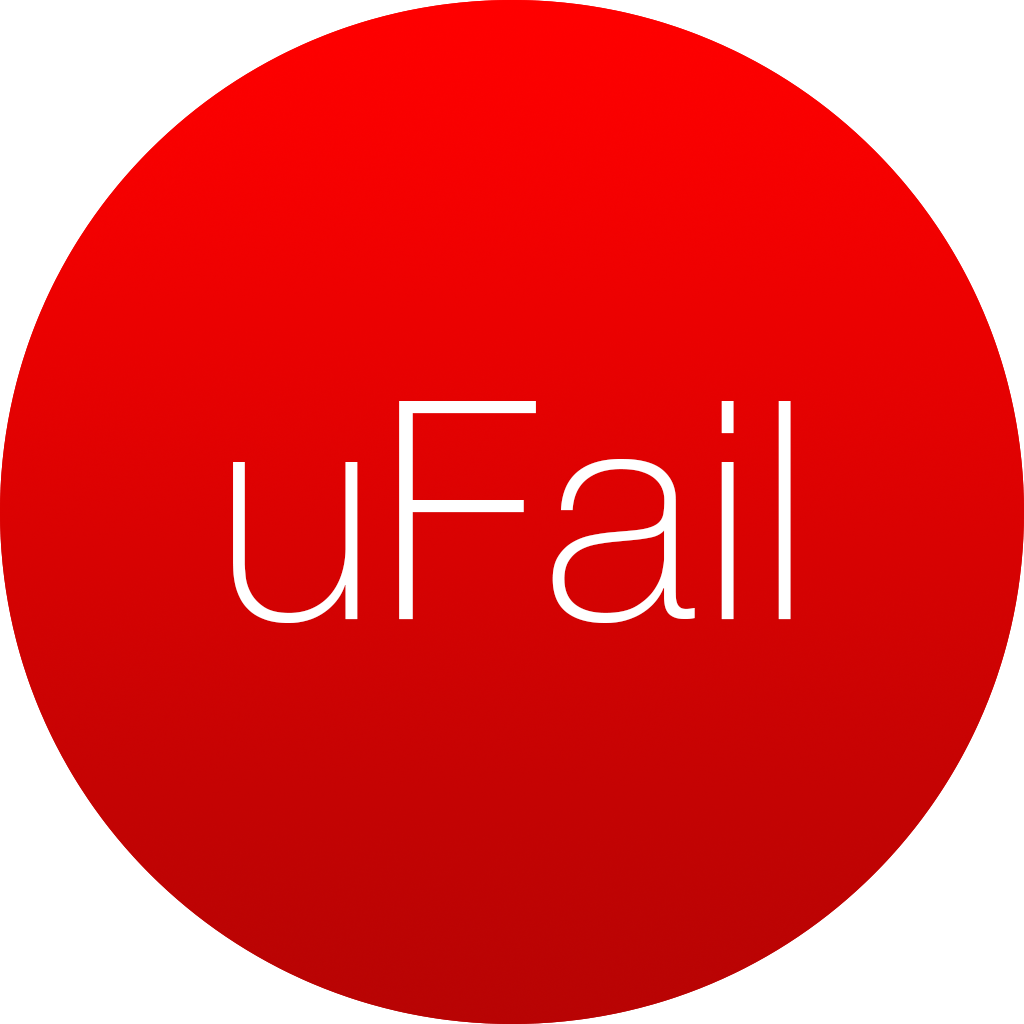
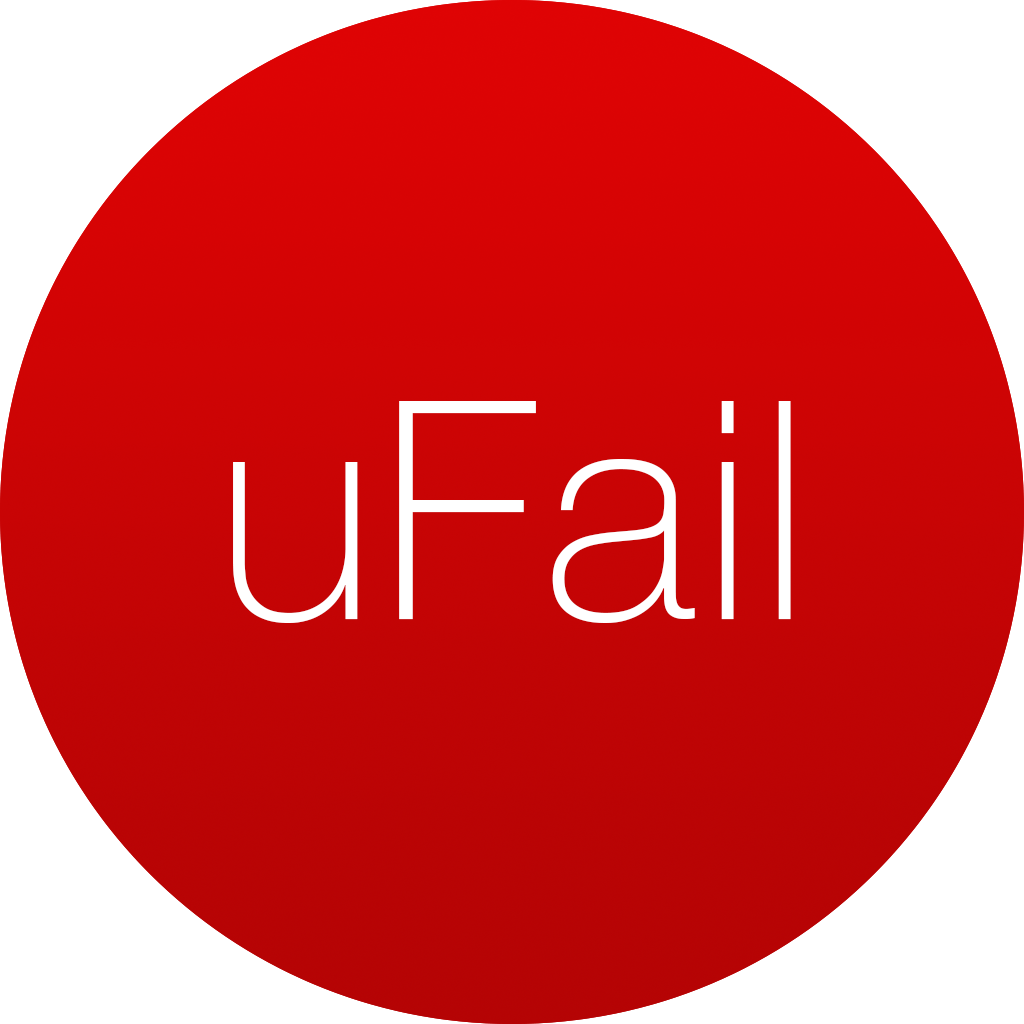
button fixes. Changing the default theme. (#118)

Changed region(s): [[0.0312, 0.0, 0.9688, 0.375]]

diff --git a/uFail/Classes/Handlers/Theme/ThemeHandler.swift b/uFail/Classes/Handlers/Theme/ThemeHandler.swift
@@ -33,7 +33,8 @@ class ThemeHandler: NSObject {
         case "purple":
             theme = .purple
         default:
-            theme = .dynamic
+            // TODO: Change to dynamic
+            theme = .blue
         }
     }
     func setTheme(_ theme: Theme) {
